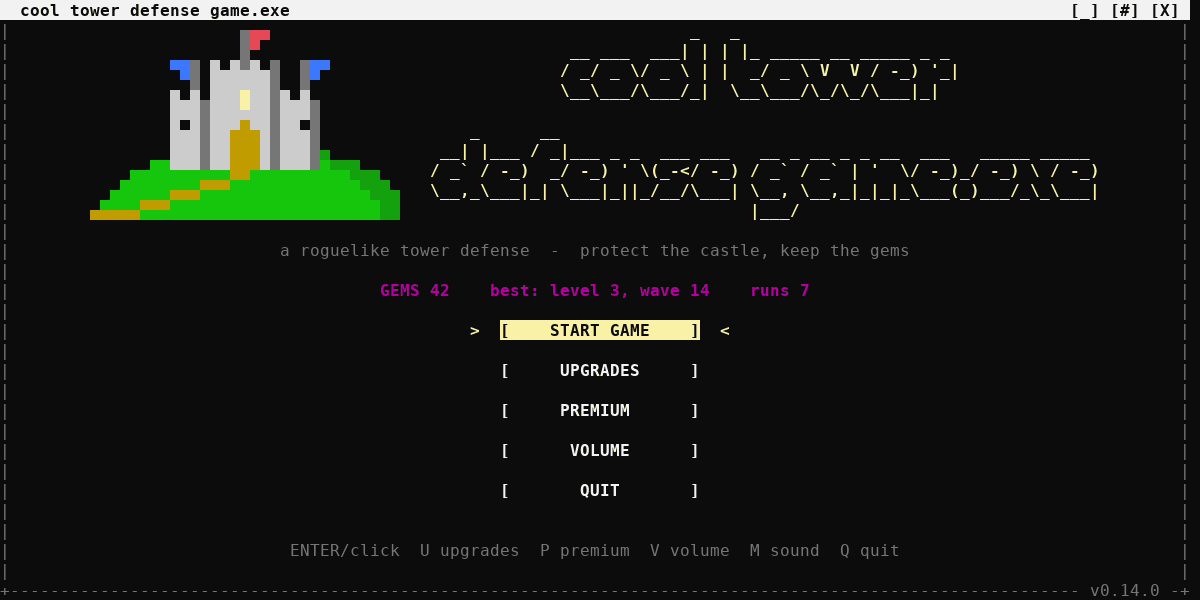
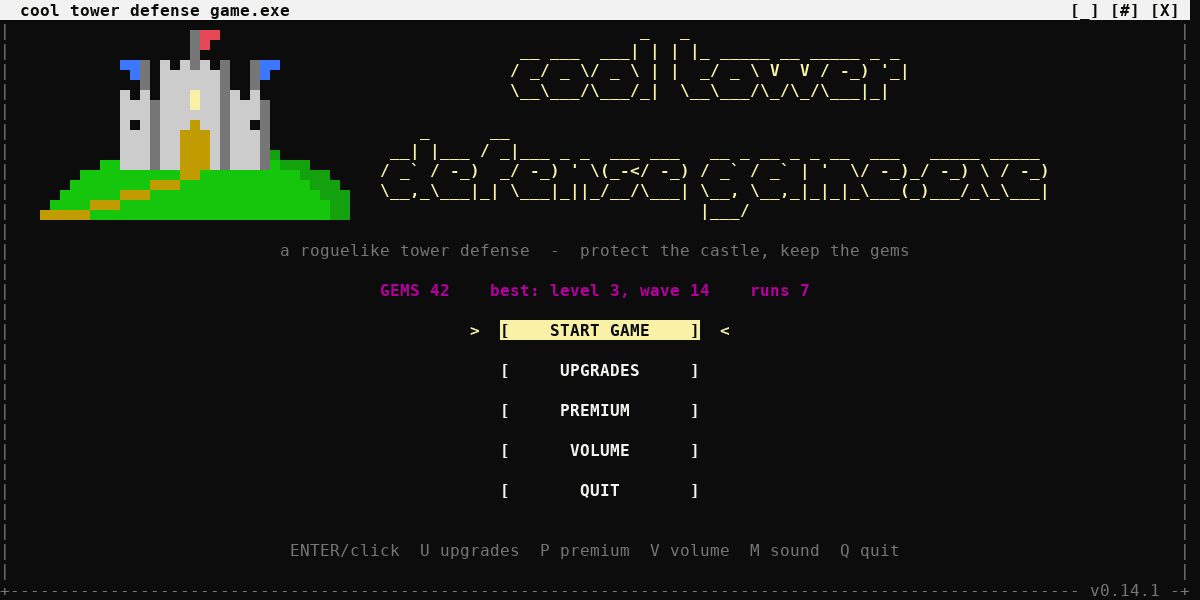
Release 0.14.1: move the menu castle and title a bit to the left
The castle and the title still move as one group, now centred and then
shifted 5 columns left (ART_SHIFT), never closer than 2 columns to the
window edge. README screenshot, badge, history and CHANGELOG updated.

Claude-Session: https://claude.ai/code/session_01DVDphfY5QkUAqvRknZmYyL

diff --git a/cool tower defense game.exe.py b/cool tower defense game.exe.py
@@ -36,7 +36,7 @@ SAVE_FILE = os.path.join(os.path.dirname(os.path.abspath(__file__)), "keep_save.
 FPS = 30
 DT = 1.0 / FPS
 GAME_NAME = "cool tower defense game.exe"
-VERSION = "0.14.0"
+VERSION = "0.14.1"
 MUSIC_DIR = os.path.join(os.path.dirname(os.path.abspath(__file__)), "assets")
 MENU_TRACK = "menu_loop.wav"
 MENU_STATES = ("menu", "upgrades", "premium", "volume")   # the menu music plays only on these screens
@@ -228,6 +228,7 @@ ART_COLORS = {                           # letter -> (curses colour, bright?)
     "g": (curses.COLOR_GREEN, False),    # hill in shadow
 }
 ART_GAP = 3                              # columns between the castle and the title
+ART_SHIFT = 5                            # castle + title sit this many columns left of centre
 ART_PAIR_BASE = 32                       # colour pairs for the art start here (the game's own use 1-13)
 ART_ATTRS = {}                           # (char, top, bottom) -> (char to draw, attribute); see init_art_colors
 
@@ -1768,12 +1769,13 @@ class App:
         step = 2 if roomy else 1
         total = sum(len(b) + 1 for b in TITLE) + (2 if roomy else 0) + 2 + len(MENU_ITEMS) * step + 2
         y = max(1, 1 + (h - 2 - total) // 2)
-        # the castle on its hill goes left of the title when it fits; the two are centred as one group
+        # the castle on its hill goes left of the title when it fits; the two move as one group, centred
+        # and then nudged ART_SHIFT columns to the left (never closer than 2 columns to the window edge)
         art = MENU_CASTLE_CELLS
         aw = len(art[0])
         tw = max(len(l) for b in TITLE for l in b)
         show_art = self.art_ok and w >= aw + ART_GAP + tw + 4
-        tx = (w - (aw + ART_GAP + tw)) // 2 + aw + ART_GAP if show_art else 0
+        tx = max(2, (w - (aw + ART_GAP + tw)) // 2 - ART_SHIFT) + aw + ART_GAP if show_art else 0
         if show_art:
             title_h = sum(len(b) + 1 for b in TITLE) - 1
             self.draw_art(y + title_h - len(art), tx - ART_GAP - aw, art)

diff --git a/README.md b/README.md
@@ -6,7 +6,7 @@
 ![Python](https://img.shields.io/badge/python-3.8%2B-blue)
 ![Dependencies](https://img.shields.io/badge/dependencies-none-brightgreen)
 ![Platform](https://img.shields.io/badge/platform-macOS%20%7C%20Linux%20%7C%20Windows-lightgrey)
-![Version](https://img.shields.io/badge/version-0.14.0-orange)
+![Version](https://img.shields.io/badge/version-0.14.1-orange)
 
 Enemies march down randomly generated paths toward your castle. Build structures, mount one of 8 weapons
 on them, lay traps, and survive as long as you can. Every level is 5 waves and ends with one of
@@ -440,7 +440,7 @@ All balance numbers live at the top of `cool tower defense game.exe.py`:
 | `VOLUME_SLIDERS`, `volume_gain()` | the sliders on the Volume screen and how a slider level turns into loudness |
 | `LEVEL_COMPLETE_SOUNDS`, `SPECIAL_THANKS`, `SPECIAL_THANKS_LEVEL` | the Level Complete voice lines; the creator's thanks and the level that triggers it |
 | `GAME_NAME`, `VERSION` | the name and version shown in the menu and title bar |
-| `MENU_CASTLE`, `ART_COLORS` | the castle beside the menu title: pixel rows (one letter per pixel) and the colour of each letter |
+| `MENU_CASTLE`, `ART_COLORS`, `ART_SHIFT` | the castle beside the menu title: pixel rows (one letter per pixel), the colour of each letter, and how far left of centre the castle + title sit |
 | `MIN_W`, `MIN_H`, `PANEL_W` | minimum terminal size and width of the side panel (24) |
 | `MAX_MAP_W`, `MAX_MAP_H` | largest map size in tiles (default 150×70) |
 
@@ -543,7 +543,8 @@ Full details are in [CHANGELOG.md](CHANGELOG.md). Each version is tagged in Git,
 | [0.12.0](CHANGELOG.md#0120---2026-10-13) | 2026-10-13 | `8d963d9` | VOLUME screen: separate sliders for music, death sounds and announcer; README refresh | 2148 lines |
 | [0.13.0](CHANGELOG.md#0130---2026-10-13) | 2026-10-13 | `80fc4ec` | Game file renamed from `keep.py` to `cool tower defense game.exe` | 2150 lines |
 | [0.13.1](CHANGELOG.md#0131---2026-10-13) | 2026-10-13 | `26f9e2f` | Game file is `cool tower defense game.exe.py`: the game's name, still a `.py` file | 2149 lines |
-| [0.14.0](CHANGELOG.md#0140---2026-10-13) | 2026-10-13 | tag `v0.14.0` | Pixel-art castle on a hill next to the title on the main menu | 2277 lines |
+| [0.14.0](CHANGELOG.md#0140---2026-10-13) | 2026-10-13 | `a773bc8` | Pixel-art castle on a hill next to the title on the main menu | 2277 lines |
+| [0.14.1](CHANGELOG.md#0141---2026-10-13) | 2026-10-13 | tag `v0.14.1` | Castle and title moved a bit to the left | 2279 lines |
 
 ## Contributing
 

diff --git a/CHANGELOG.md b/CHANGELOG.md
@@ -8,9 +8,20 @@ Every version links to its Git tag, so you can see exactly how the code changed 
 
 ## [Unreleased]
 
+## [0.14.1] - 2026-10-13
+
+`cool tower defense game.exe.py`: 2279 lines
+
+### Changed
+- **The castle and the title sit a bit further left on the main menu.** They still move as one group, centred
+  and then shifted 5 columns left (`ART_SHIFT`), so the title lines up better over the menu buttons. They never
+  get closer than 2 columns to the window edge.
+- `docs/menu.png` shows the new position.
+
 ## [0.14.0] - 2026-10-13
 
-`cool tower defense game.exe.py`: 2277 lines
+Commit [`a773bc8`](https://github.com/zsidiadi/Ball-Heckaton-ascii-game/commit/a773bc827dceb3284b0a9438f0f0d44b692cfd60)
+· `cool tower defense game.exe.py`: 2277 lines
 
 ### Added
 - **A castle on a hill next to the title on the main menu.** It's pixel art drawn with terminal block
@@ -446,7 +457,8 @@ Commit [`f9ef6a2`](https://github.com/zsidiadi/Ball-Heckaton-ascii-game/commit/f
 ### Added
 - Repository created for the B.A.L.L.S hackathon, with a README stub.
 
-[Unreleased]: https://github.com/zsidiadi/Ball-Heckaton-ascii-game/compare/v0.14.0...HEAD
+[Unreleased]: https://github.com/zsidiadi/Ball-Heckaton-ascii-game/compare/v0.14.1...HEAD
+[0.14.1]: https://github.com/zsidiadi/Ball-Heckaton-ascii-game/compare/v0.14.0...v0.14.1
 [0.14.0]: https://github.com/zsidiadi/Ball-Heckaton-ascii-game/compare/v0.13.1...v0.14.0
 [0.13.1]: https://github.com/zsidiadi/Ball-Heckaton-ascii-game/compare/v0.13.0...v0.13.1
 [0.13.0]: https://github.com/zsidiadi/Ball-Heckaton-ascii-game/compare/v0.12.0...v0.13.0
